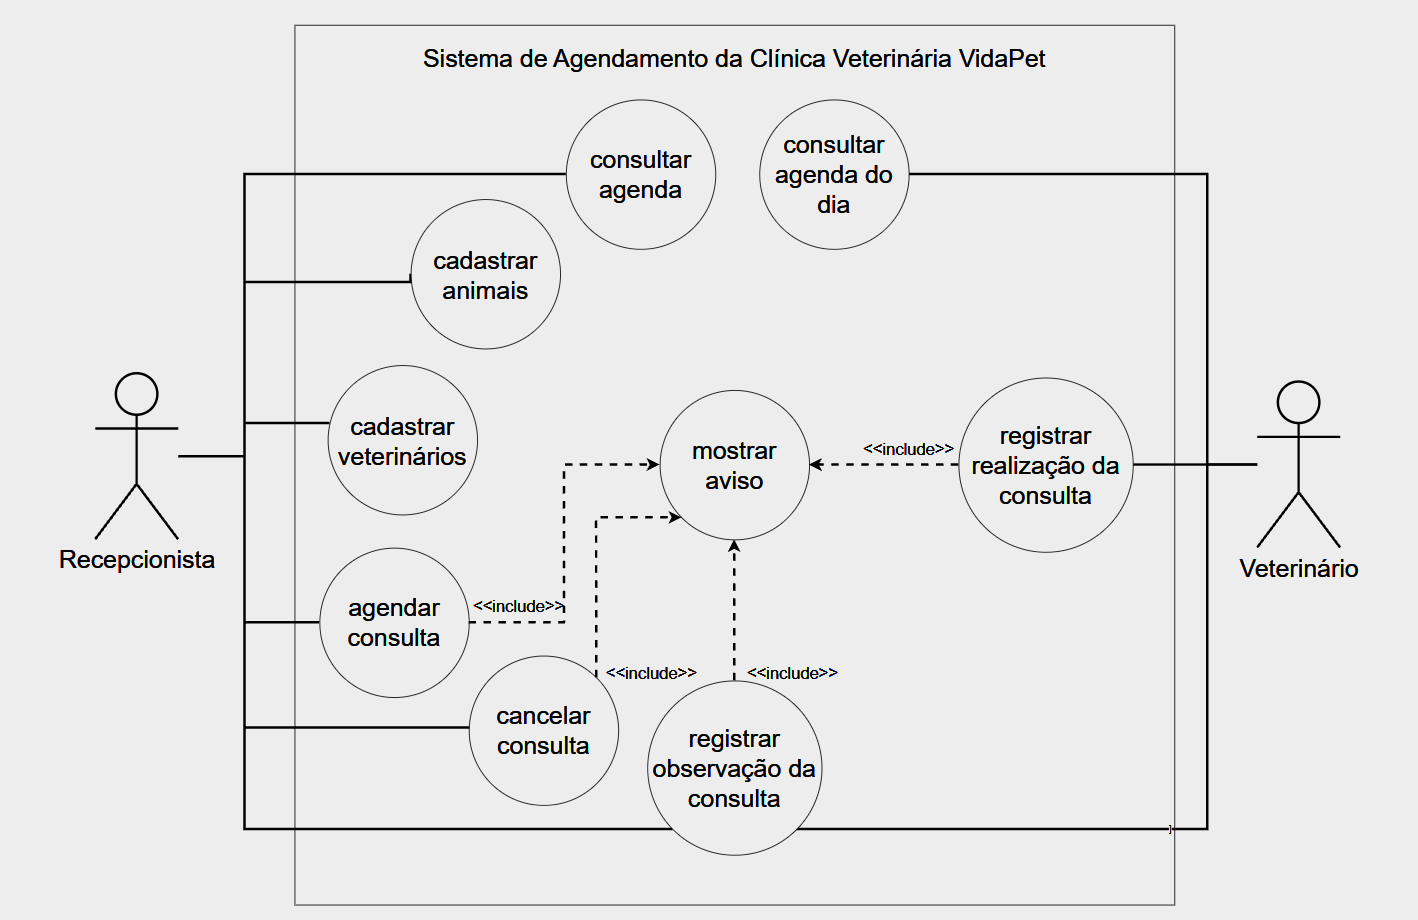
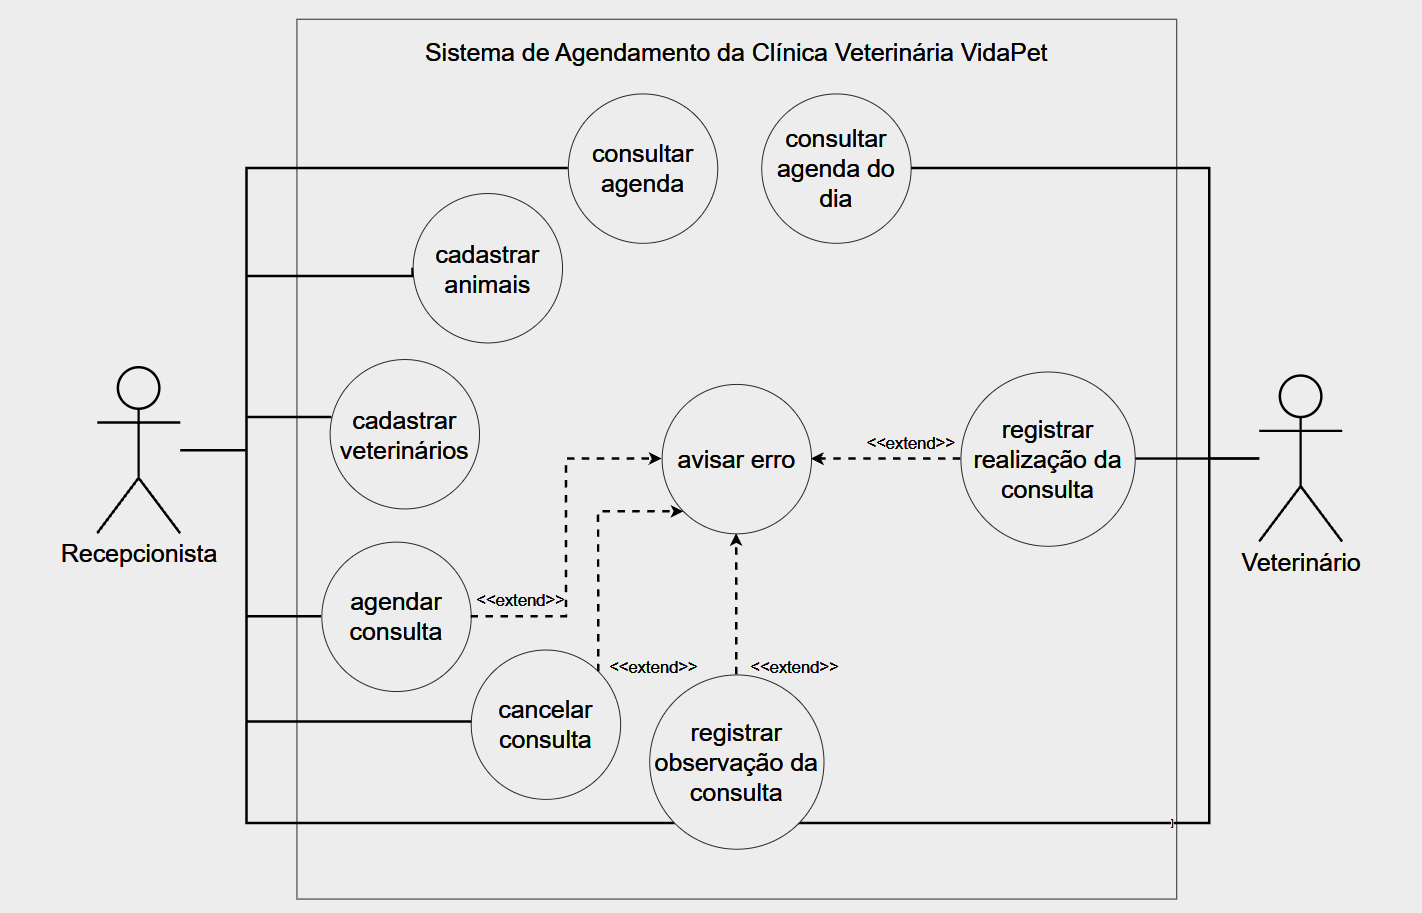
Correções em modelagem.

diff --git a/modelagem.md b/modelagem.md
@@ -34,7 +34,7 @@ A VidaPet é uma clínica veterinária pequena que atende cães e gatos. Hoje a 
 - **RF05**: Consultar agenda.
 - **RF06**: Registrar realização da consulta.
 - **RF07**: Registrar observação da consulta.
-- **RF08**: Mostrar aviso.
+- **RF08**: Avisar erro.
 
 ### Requisitos Não Funcionais
 

diff --git a/requisitos.md b/requisitos.md
@@ -26,4 +26,4 @@
 - **RF**: registrar observação da consulta
 - **RNF**: a realização e observação da consulta são interdependentes
 
-- **RF**: mostrar aviso
+- **RF**: avisar erro
